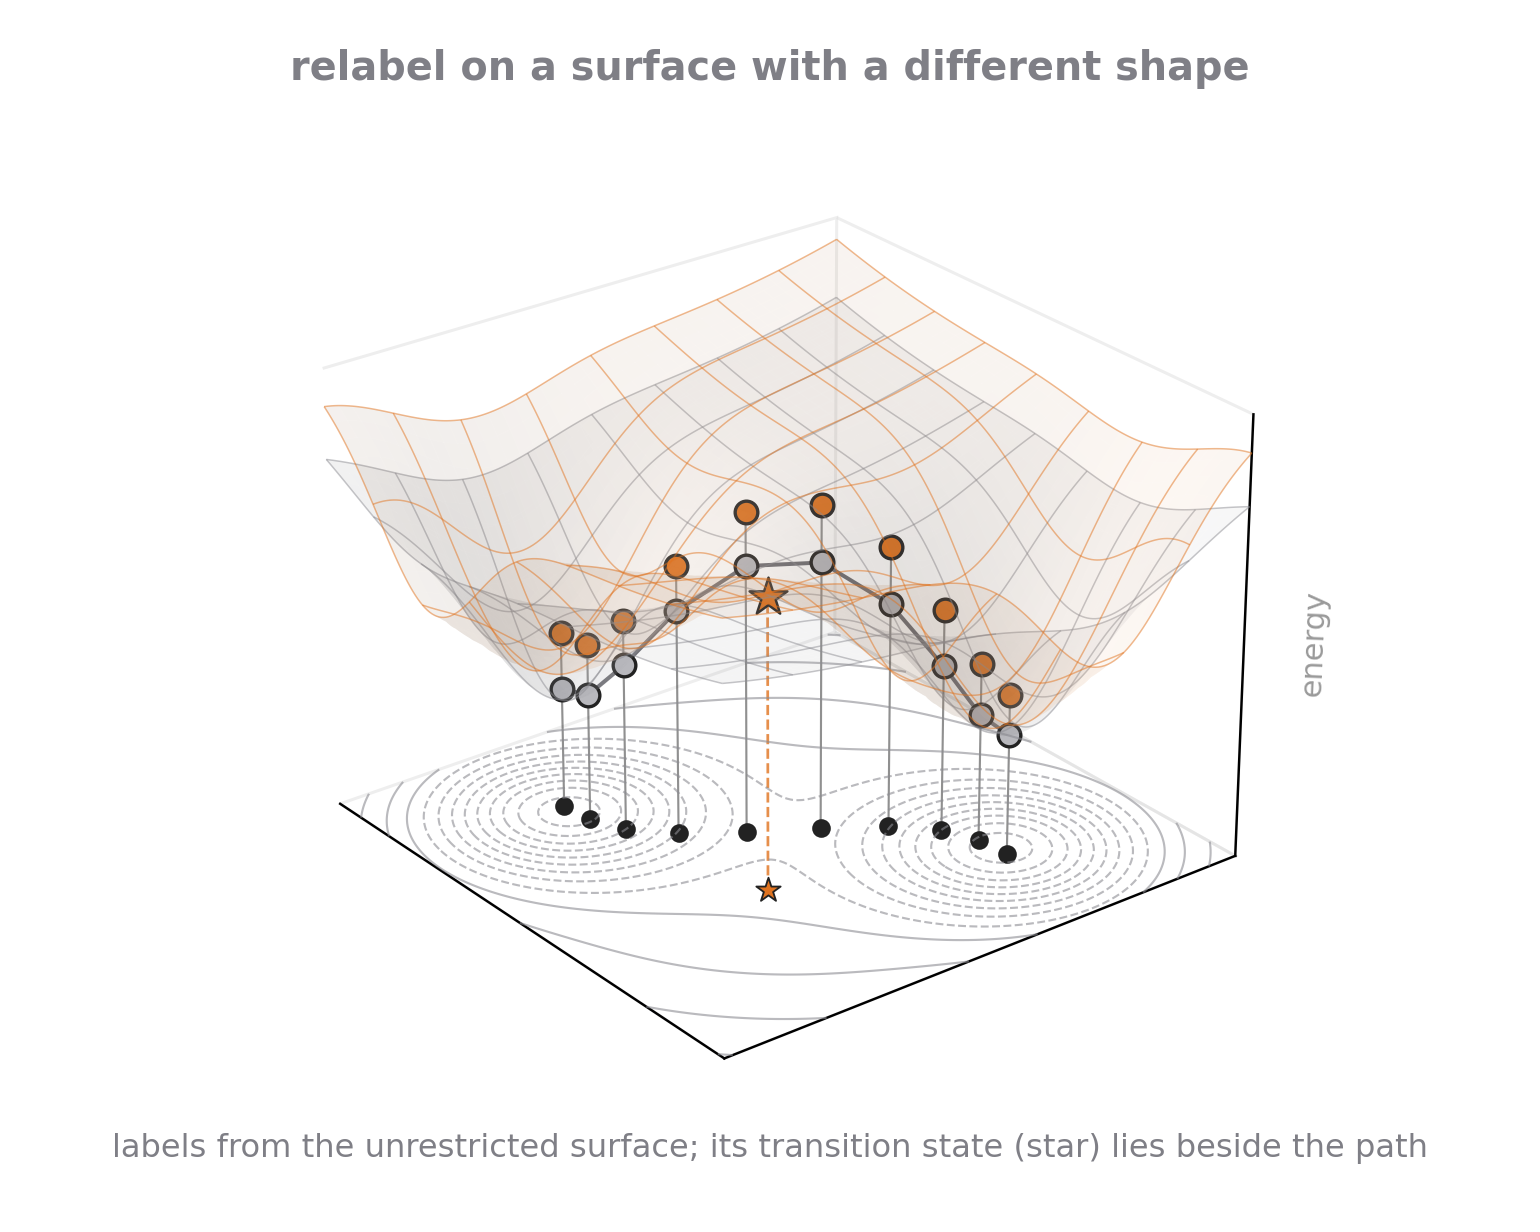
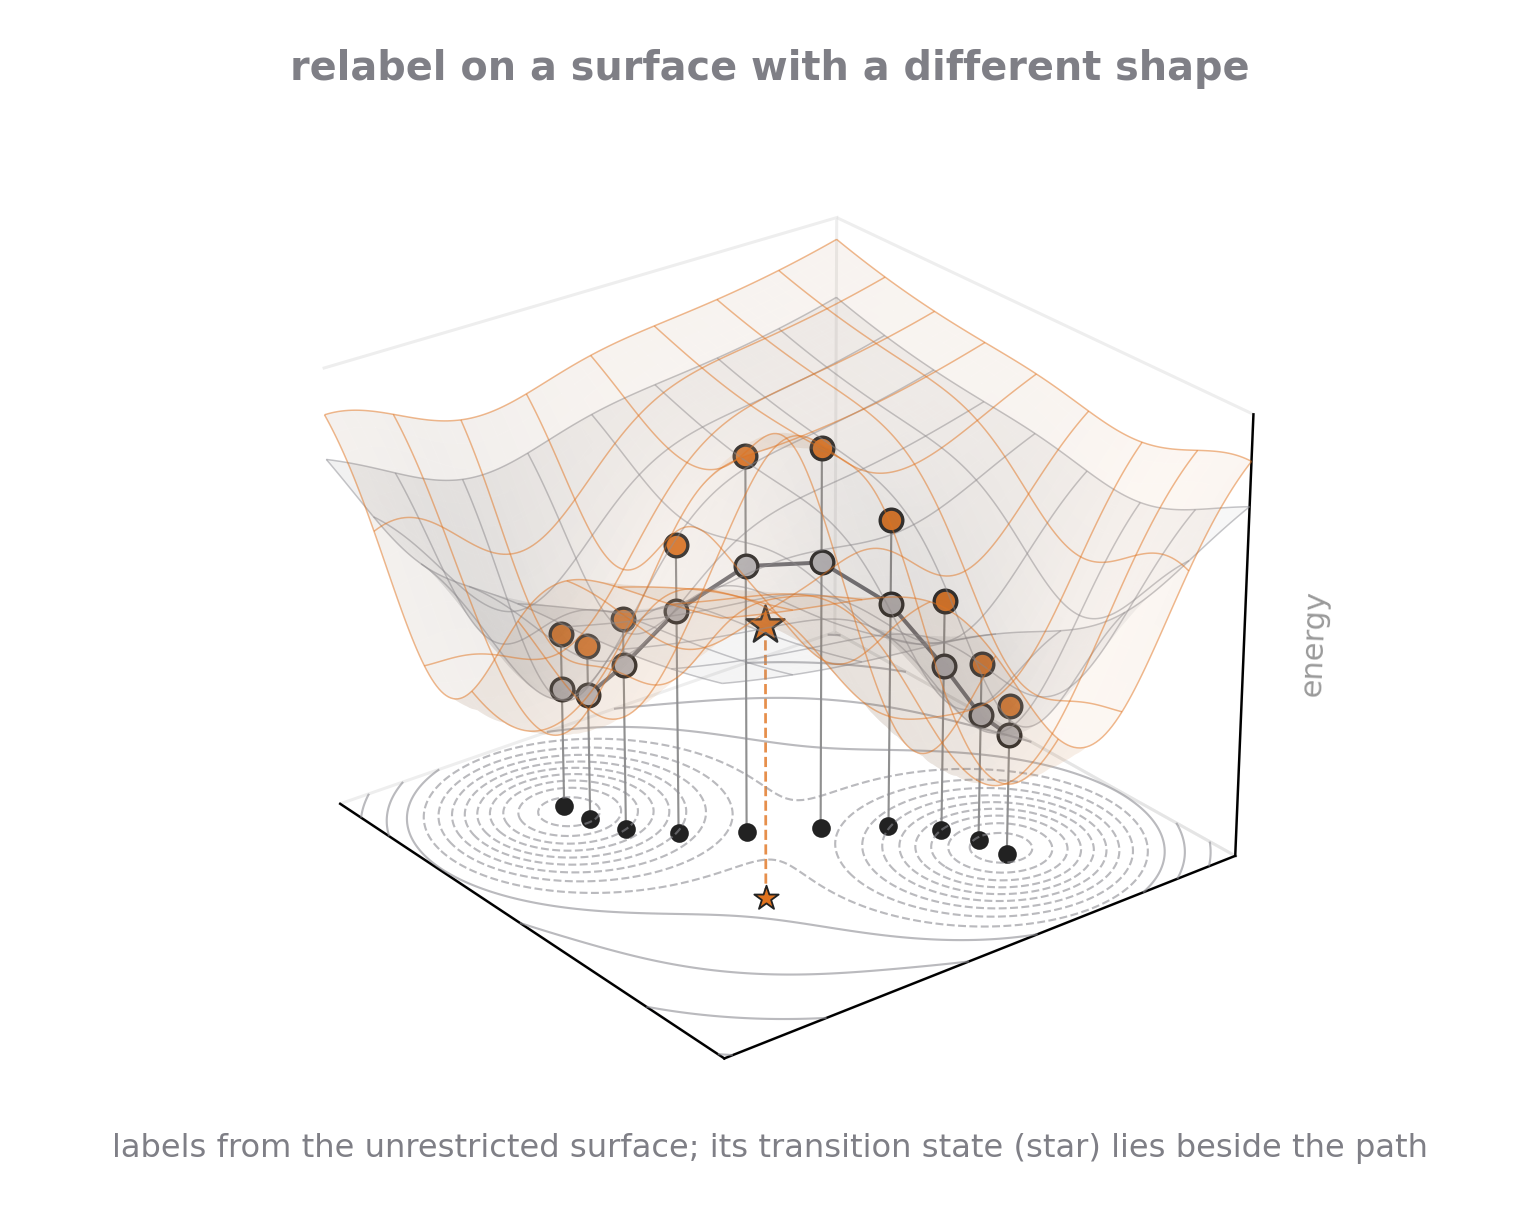
Defence talk: RQ2 picture with an exaggerated unrestricted surface

diff --git a/docs/defence/draw_dataset_pics.py b/docs/defence/draw_dataset_pics.py
@@ -411,13 +411,14 @@ def pes_bs(x, y):
     v = (x - y) / np.sqrt(2.0)          # across the path
     # trough across the path direction, with a small bump at u = 0 inside it,
     # so the trough's highest point (the new saddle) sits at (u, v) = (0, 0.75)
-    across = np.exp(-((v - 0.75) ** 2) / 0.22)
-    along = 0.55 + 0.45 * (1.0 - np.exp(-(u ** 2) / 0.3))
-    return pes(x, y, "cheap") + 0.32 - 0.55 * across * along
+    across = np.exp(-((v - 0.85) ** 2) / 0.30)
+    along = 0.45 + 0.55 * (1.0 - np.exp(-(u ** 2) / 0.35))
+    ridge = 0.35 * np.exp(-(v ** 2) / 0.12) * np.exp(-(u ** 2) / 0.6)   # the restricted saddle region is raised
+    return pes(x, y, "cheap") + 0.32 - 0.95 * across * along + ridge
 
 
 def saddle_of(f):
-    u, v = 0.0, 0.75
+    u, v = 0.0, 0.85
     x = (u + v) / np.sqrt(2.0); y = (u - v) / np.sqrt(2.0)
     return x, y, f(x, y)
 
